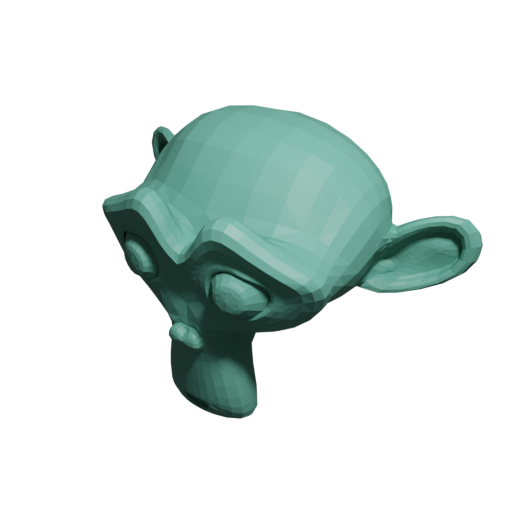
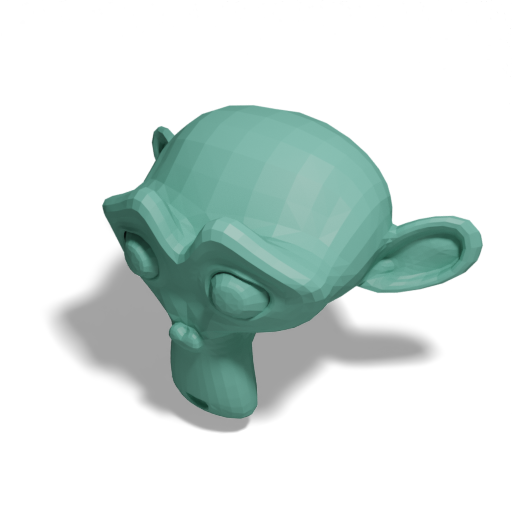
Refactor shadow handling and update README
- Updated README to clarify shadow options.
- Changed shadow strength handling in `main.py`.
- Introduced `Strength.OFF` for shadow strength.
- Simplified shadow condition checks in `make_lights`.

diff --git a/main.py b/main.py
@@ -33,6 +33,7 @@ class Color(Enum):
 
 
 class Strength(Enum):
+    OFF = 0.5
     WEAK = 0.6
     MEDIUM = 0.7
     STRONG = 1.0
@@ -240,7 +241,7 @@ def run(obj_path: str | Tuple[str, str],
 
     if gravity or backdrop:
         setup_backdrop(obj=obj,
-                       shadow_strength=Strength.MEDIUM,
+                       shadow_strength=Strength.OFF if isinstance(shadow, bool) and not shadow else Strength.MEDIUM,
                        transparent=transparent,
                        color=None if transparent else bg_color,
                        gravity=gravity,
@@ -251,7 +252,7 @@ def run(obj_path: str | Tuple[str, str],
 
     light = light or (Light.BRIGHT if is_mesh else Light.VERY_BRIGHT)
     light = light if isinstance(light, float) else Light[light.upper()].value if isinstance(light, str) else light.value
-    shadow = Shadow(shadow) if shadow else (Shadow.MEDIUM if is_mesh else Shadow.SOFT) if shadow is None else shadow
+    shadow = Shadow(shadow) if shadow else (Shadow.MEDIUM if is_mesh else Shadow.SOFT)
     make_lights(obj=obj,
                 shadow=shadow,
                 light_intensity=light)
@@ -1057,7 +1058,7 @@ def add_ambient_occlusion(obj: Optional[bproc.types.MeshObject] = None,
 
 
 def make_lights(obj: bproc.types.MeshObject,
-                shadow: Shadow | str | bool = Shadow.MEDIUM,
+                shadow: Shadow | str = Shadow.MEDIUM,
                 light_intensity: float = 0.2,
                 fill_light: bool = False,
                 rim_light: bool = False):
@@ -1079,17 +1080,14 @@ def make_lights(obj: bproc.types.MeshObject,
     key_light.set_location([1, 0.5, 2])
     key_light.set_rotation_mat(bproc.camera.rotation_from_forward_vec(obj.get_location() - key_light.get_location()))
     scale = 1
-    if shadow:
-        if Shadow(shadow) is Shadow.VERY_HARD:
-            scale = 0.01
-        elif Shadow(shadow) is Shadow.HARD:
-            scale = 0.1
-        elif Shadow(shadow) is Shadow.SOFT:
-            scale = 3
-        elif Shadow(shadow) is Shadow.VERY_SOFT:
-            scale = 5
-    else:
-        key_light.blender_obj.data.use_shadow = False
+    if Shadow(shadow) is Shadow.VERY_HARD:
+        scale = 0.01
+    elif Shadow(shadow) is Shadow.HARD:
+        scale = 0.1
+    elif Shadow(shadow) is Shadow.SOFT:
+        scale = 3
+    elif Shadow(shadow) is Shadow.VERY_SOFT:
+        scale = 5
     key_light.set_scale([scale] * 3)
     key_light.set_energy(int(150 * light_intensity))
 

diff --git a/README.md b/README.md
@@ -93,7 +93,7 @@ Shadows are rendered by default. To disable them, use the `--noshadow` option. T
 | Soft shadow                       | Hard shadow                      | No shadow                            |
 |-----------------------------------|----------------------------------|--------------------------------------|
 | ![mesh](examples/shadow_soft.png) | ![pcd](examples/shadow_hard.png) | ![mesh_depth](examples/noshadow.png) |
-| `--shadow soft`                   | `--shadow hard`                  | `--noshadow` `--light medium`        |
+| `--shadow soft`                   | `--shadow hard`                  | `--noshadow`                         |
 
 ### Shading
 
